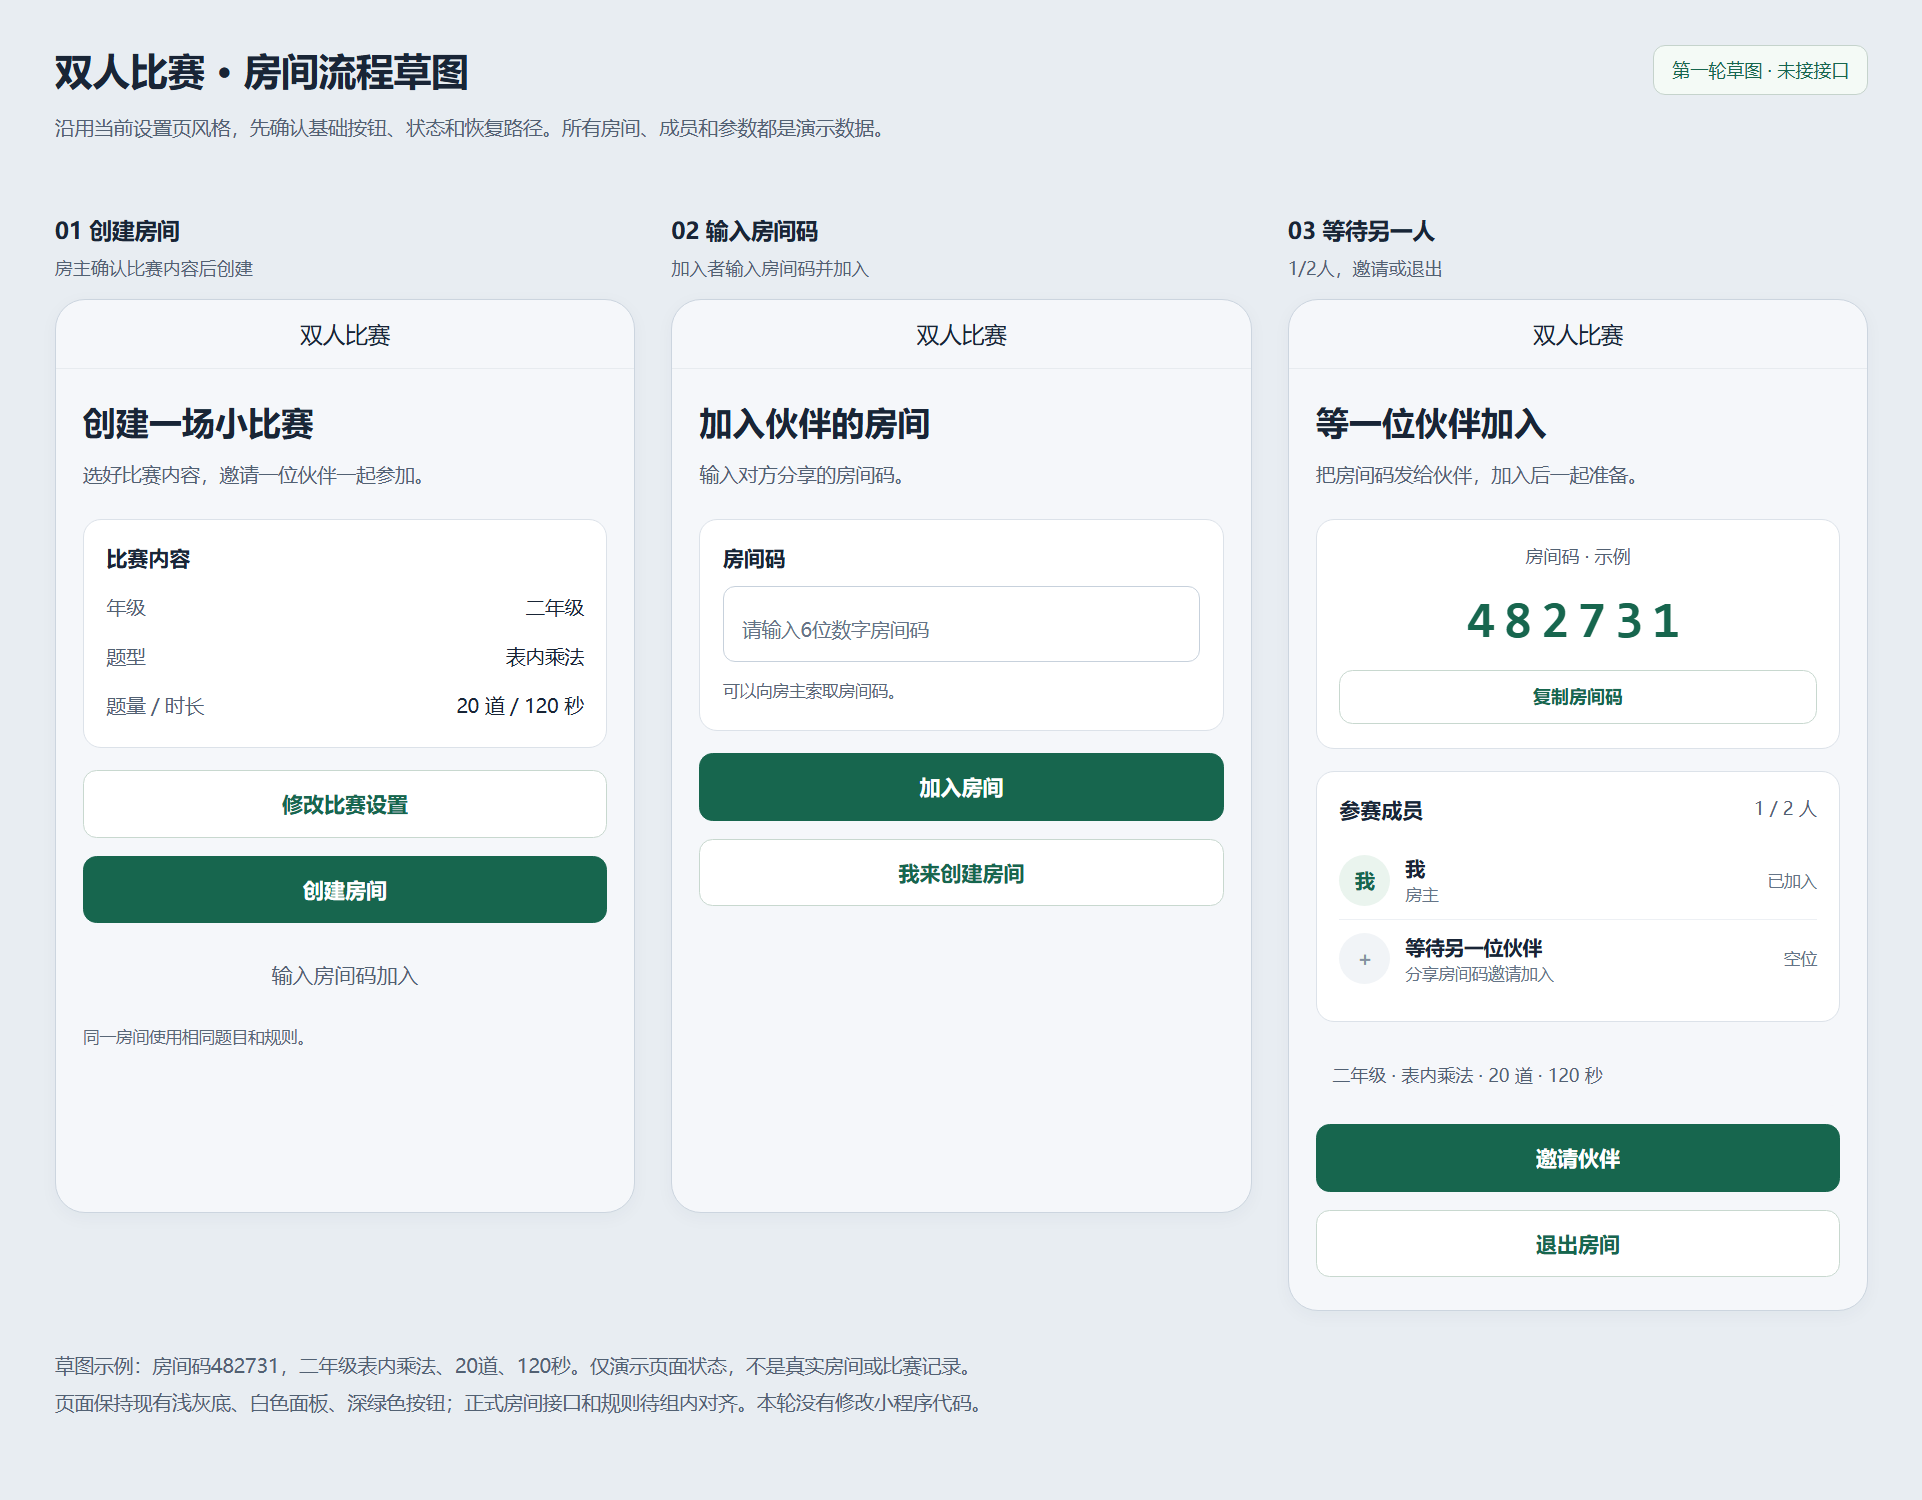
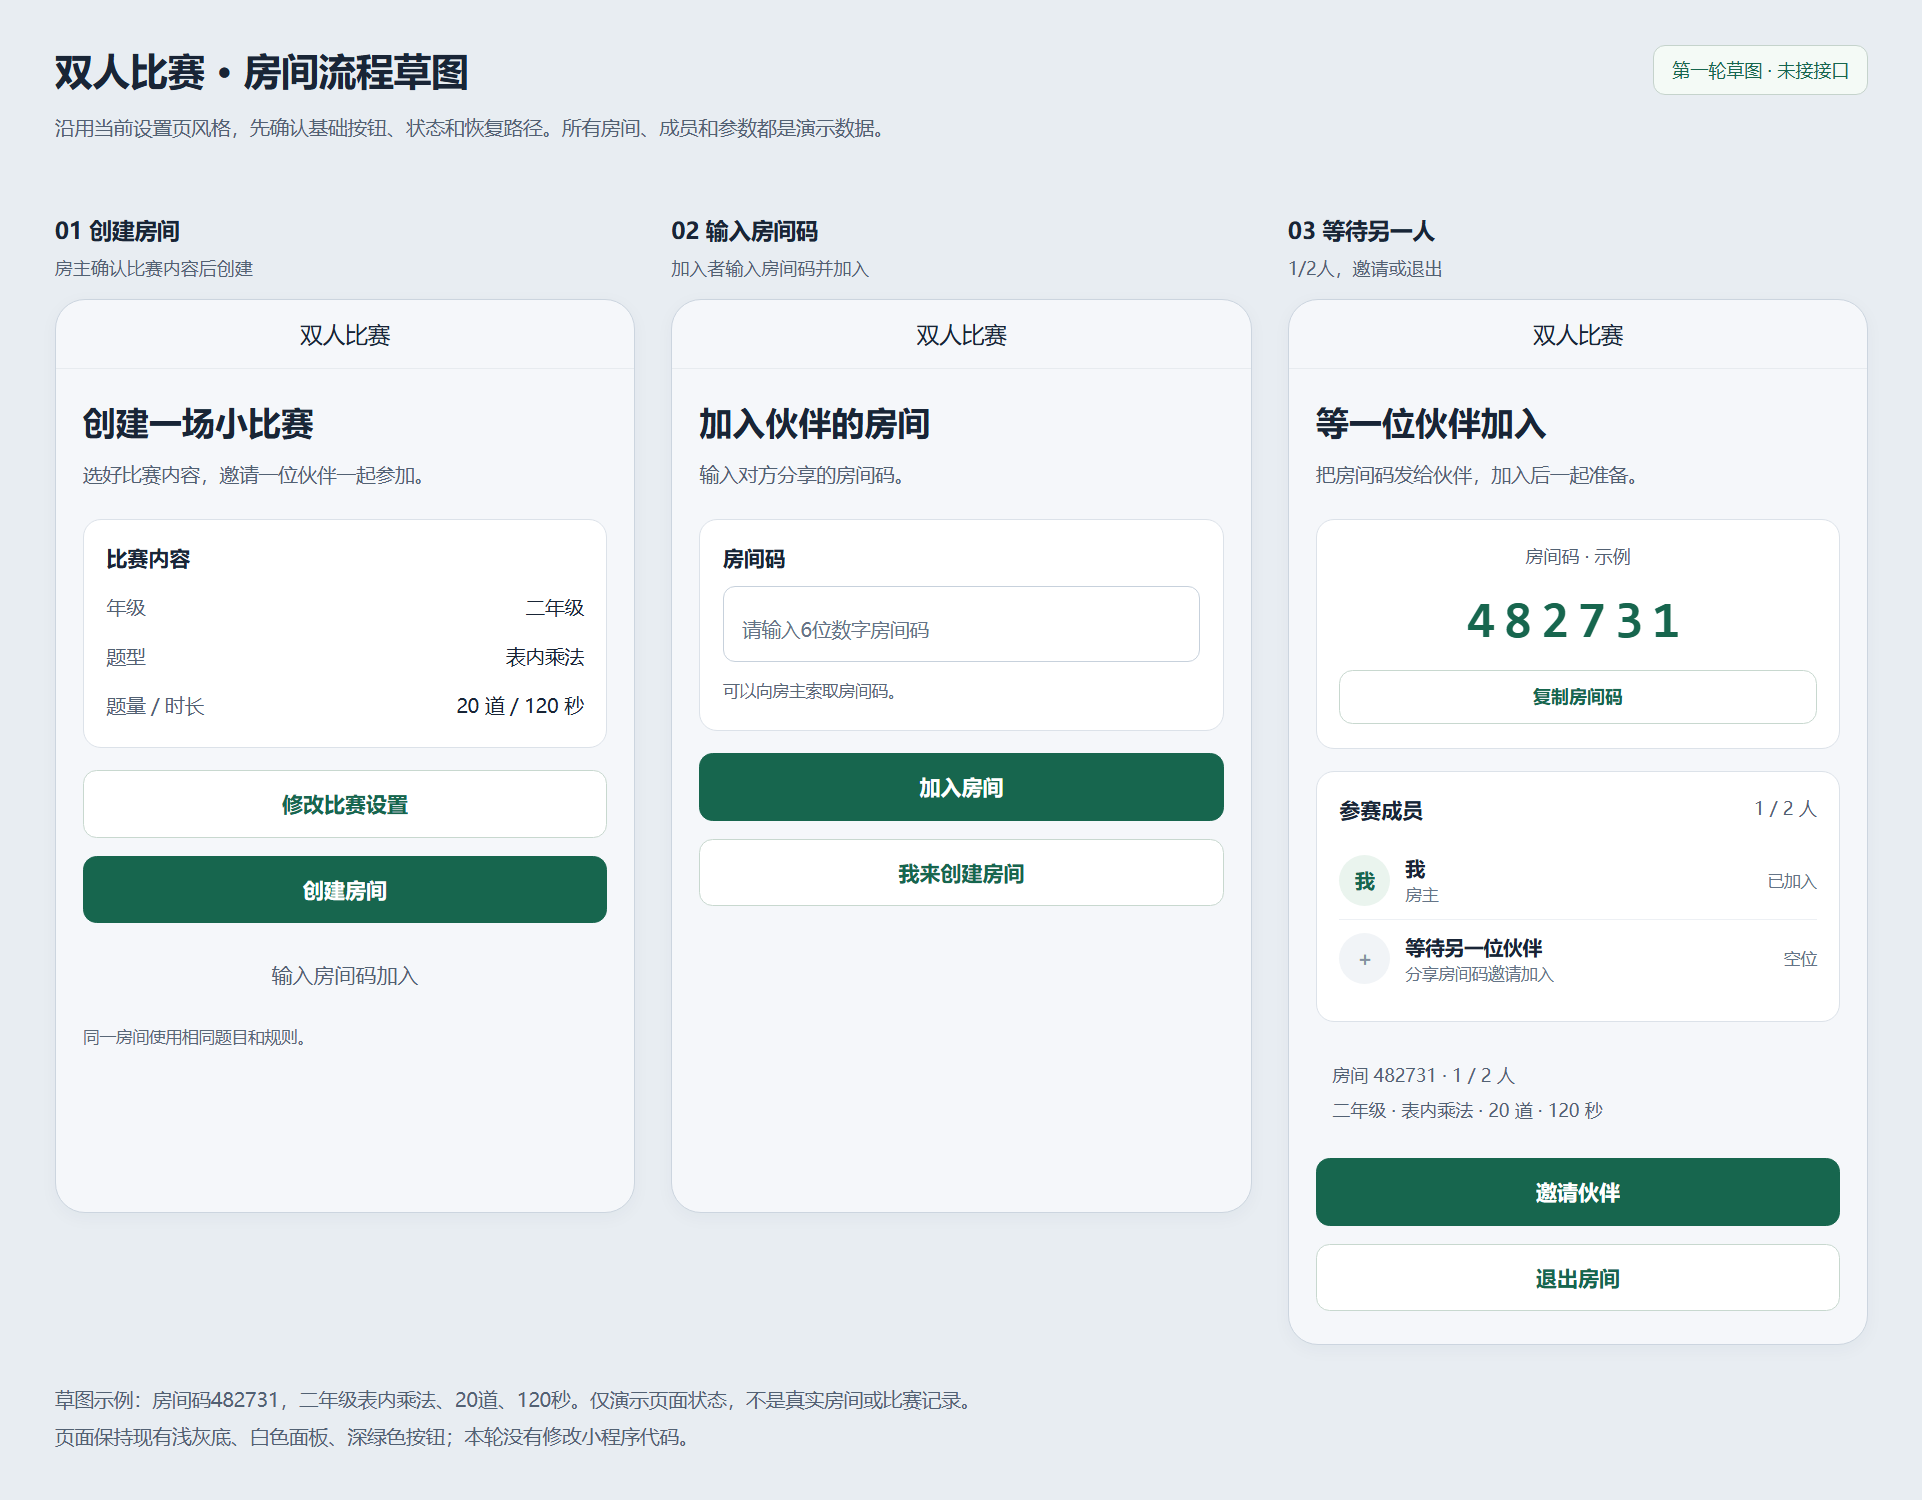
docs: align room countdown and refresh mockup sheets

Changed region(s): [[0.0312, 0.8893, 0.4995, 0.9813], [0.6868, 0.7053, 0.9677, 0.8587]]

diff --git a/docs/比赛房间草图/比赛房间-交互草图.html b/docs/比赛房间草图/比赛房间-交互草图.html
@@ -2,6 +2,8 @@
 *{box-sizing:border-box}body{margin:0;background:#e8edf2;color:#192536;font-family:-apple-system,BlinkMacSystemFont,'Microsoft YaHei',sans-serif}button,input{font-family:inherit}button{cursor:pointer}button:disabled{cursor:default}button:focus-visible,input:focus-visible{outline:3px solid #9bbfad;outline-offset:2px}.board{max-width:1281px;margin:auto;padding:30px 36px}.head{display:flex;justify-content:space-between;gap:20px;align-items:start}.head h1{margin:0 0 9px;font-size:25px}.intro,.footer{font-size:13px;line-height:1.9;color:#526173}.tag{white-space:nowrap;color:#17664e;background:#f4faf6;border:1px solid #c5d3cc;border-radius:8px;padding:8px 12px;font-size:12px}.nav-states{display:flex;gap:7px;flex-wrap:wrap;margin:20px 0}.nav-states button,.demo-tools button{border:1px solid #cdd7df;background:#fff;color:#334155;padding:8px 11px;border-radius:7px;font-size:12px}.nav-states .active{border-color:#17664e;background:#eaf4ee;color:#104f3c}.layout{display:flex;gap:30px;align-items:flex-start;justify-content:center}.screen{position:relative;width:375px;flex:none;background:#f5f7fa;border:1px solid #ccd5df;border-radius:20px;overflow:hidden;box-shadow:0 3px 12px #1b33400a}.bar{height:46px;display:flex;justify-content:center;align-items:center;font-size:15px;border-bottom:1px solid #e7ebef}.content{padding:20px 18px 22px;min-height:560px}.title{font-size:22px;line-height:1.45;font-weight:700;margin:0 0 7px}.sub{font-size:13px;line-height:1.8;color:#526173;margin-bottom:18px}.card{padding:16px 15px;border:1px solid #dce2e9;border-radius:12px;background:#fff;margin-bottom:15px}.card-title{font-size:14px;font-weight:600;margin-bottom:13px}.kv{display:flex;justify-content:space-between;align-items:start;gap:14px;font-size:13px;line-height:1.8;margin-top:9px}.kv .key{color:#526173;white-space:nowrap}.kv .value{text-align:right;color:#192536}.line{height:1px;background:#e6ebf0;margin:13px 0}.button{display:block;width:100%;border:1px solid #17664e;border-radius:9px;min-height:45px;line-height:1.5;background:#17664e;color:#fff;font-size:14px;font-weight:600;text-align:center;padding:11px 12px;margin:12px 0 0}.button.secondary{background:#fff;color:#17664e;border-color:#c8d8cf}.button.tertiary{color:#526173;background:transparent;border-color:transparent;font-weight:400}.button:disabled{background:#edf1f4;color:#8491a0;border-color:#dce2e9}.button.small{font-size:12px;min-height:36px;padding:7px 10px;margin-top:13px}.hint{font-size:11px;line-height:1.8;color:#596777;margin-top:9px}.green-note{color:#36614f}.room-code{font-family:Consolas,monospace;font-size:34px;font-weight:700;letter-spacing:6px;color:#17664e;text-align:center;margin:15px 0 4px}.code-label{font-size:12px;text-align:center;color:#526173}.members-title{display:flex;justify-content:space-between;font-size:14px;font-weight:600;margin-bottom:12px}.members-title span{font-size:12px;font-weight:400;color:#526173}.member{display:flex;align-items:center;gap:10px;min-height:52px;padding:8px 0}.member+.member{border-top:1px solid #edf0f4}.avatar{width:34px;height:34px;border-radius:50%;background:#eaf4ee;color:#17664e;text-align:center;line-height:34px;font-size:13px;font-weight:600}.member-empty .avatar{background:#f1f4f7;color:#8491a0}.member-copy{flex:1}.member-name{font-size:13px;font-weight:600}.member-role{font-size:11px;color:#657487;margin-top:2px}.member-state{font-size:11px;color:#657487}.member-state.done{color:#17664e}.badge{font-size:11px;padding:3px 7px;border-radius:5px;background:#eaf4ee;color:#17664e}.field-label{font-size:14px;font-weight:600;margin-bottom:10px}.code-input{width:100%;height:51px;box-sizing:border-box;border:1px solid #c7d1dc;border-radius:8px;padding:0 12px;background:#fff;font-size:22px;font-weight:600;letter-spacing:5px;color:#192536;outline:none}.code-input::placeholder{font-size:13px;font-weight:400;letter-spacing:0;color:#657487}.input-error{border-color:#ad3529}.error-text{font-size:12px;color:#ad3529;line-height:1.7;margin-top:8px}.center{text-align:center}.count-circle{width:106px;height:106px;border-radius:50%;background:#eaf4ee;color:#17664e;font-size:58px;font-weight:700;line-height:106px;margin:29px auto 24px}.symbol{width:70px;height:70px;border-radius:50%;background:#f0f3f6;color:#526173;font-size:27px;line-height:70px;margin:9px auto 20px;font-weight:600}.symbol.warning{background:#fff3df;color:#876019}.aside{max-width:430px;flex:1;background:#fff;border:1px solid #d5dfe5;border-radius:12px;padding:20px}.aside h2{font-size:17px;margin:0 0 12px}.aside p{font-size:13px;color:#526173;line-height:1.9;margin:8px 0}.demo-tools{display:flex;flex-wrap:wrap;gap:8px;margin:14px 0}.demo-title{font-size:12px;font-weight:600;color:#526173;margin-top:20px}.demo-message{min-height:40px;font-size:12px;line-height:1.8;color:#785317;padding-top:8px}.columns{display:flex;gap:24px;align-items:start;margin:24px 0}.column{width:387px;flex:none}.column .screen{width:387px}.caption{font-size:15px;font-weight:600;margin-bottom:10px;line-height:1.6}.caption small{font-size:12px;color:#526173;font-weight:400}.footer{margin-top:21px}.overlay{position:absolute;inset:0;background:#102d3670;display:flex;align-items:center;justify-content:center;padding:25px}.dialog{background:#fff;border-radius:13px;padding:21px;width:100%}.dialog h3{font-size:18px;margin:0 0 10px}.dialog p{font-size:13px;line-height:1.8;color:#526173}.summary-mini{font-size:12px;line-height:1.9;color:#526173;background:#f5f7fa;padding:9px 11px;border-radius:7px;margin:12px 0}.sheet .board{width:1281px;max-width:none}.sheet .content{min-height:562px}.sheet .column{min-height:650px}.loading-dots{font-size:25px;color:#17664e;letter-spacing:5px;margin:12px 0}@media(max-width:780px){body:not(.sheet) .board{padding:20px 12px}body:not(.sheet) .layout{flex-direction:column;align-items:center}body:not(.sheet) .screen{max-width:100%}body:not(.sheet) .aside{max-width:100%;width:375px}body:not(.sheet) .head{flex-wrap:wrap}}
 </style><main class="board"><header class="head"><div><h1>双人比赛 · 房间流程草图</h1><div class="intro">沿用当前设置页风格，先确认基础按钮、状态和恢复路径。所有房间、成员和参数都是演示数据。</div></div><div class="tag">第一轮草图 · 未接接口</div></header><nav id="state-nav" class="nav-states"></nav><div id="main"><div class="layout"><div class="screen" id="phone"></div><aside class="aside"><h2>当前状态说明</h2><p id="state-description"></p><div class="demo-title">草图演示控制（不是小程序按钮）</div><div class="demo-tools" id="demo-tools"><button data-demo="partner-join">模拟伙伴加入</button><button data-demo="partner-ready">切换伙伴准备</button><button data-demo="role">切换房主／加入者</button><button data-demo="host-start">模拟房主开赛</button><button data-demo="offline">模拟连接失败</button><button data-demo="cancel-start">模拟服务端取消开始</button><button data-demo="close-room">模拟服务端关闭房间</button></div><p>加入演示：482731正常；111111房间已满；222222失效；333333连接失败。</p><p>上方状态按钮会初始化预置示例。重连保留原房间快照；右侧可明确模拟断线期间的准备变化、取消开始和关闭房间。</p><div id="demo-message" class="demo-message"></div><div class="line"></div><p>浏览器交互草图，不是微信或真机截图。页面确认后再接房间接口；不代表已实现联机、身份或同步。</p></aside></div></div></main><script>(function client(stateList) {
   const sheet = new URLSearchParams(location.search).get('sheet');
+  // 与 docs/07_扩展题型与开赛规则确认.md 的 CR09 保持一致。
+  const COUNTDOWN_SECONDS = 3;
   let current = 'create', role = 'host', roomCode = '', inputError = '', dialog = false, timer = null;
   let mockRoom = null, displayedRoom = null, pendingJoin = false, attemptSerial = 0;
   const copy = value => value && JSON.parse(JSON.stringify(value));
@@ -65,7 +67,7 @@
     if (!snapshot || snapshot.phase !== 'waiting' || snapshot.members.length !== 2 || !snapshot.members.every(m => m.ready)) {
       showMessage('模拟服务端拒绝开始：需要两名成员均已准备。'); return;
     }
-    const startAt = Date.now() + 3000;
+    const startAt = Date.now() + COUNTDOWN_SECONDS * 1000;
     mockRoom = { ...snapshot, phase: 'countdown', attemptId: 'demo-attempt-' + (++attemptSerial),
       startAt, endAt: startAt + 120000,
       lastEvent: '模拟服务端事件：房主开始新批次，确定同一 startAt。' };
@@ -180,7 +182,7 @@
     document.body.classList.add('sheet');
     document.getElementById('main').innerHTML = '<div class="columns">' + sets[sheet].map(state => {
       const snapshot = newRoom(state === 'waiting' || state === 'offline' ? 1 : 2, ['both', 'countdown'].includes(state));
-      if (state === 'countdown') { snapshot.phase = 'countdown'; snapshot.startAt = Date.now() + 3000; }
+      if (state === 'countdown') { snapshot.phase = 'countdown'; snapshot.startAt = Date.now() + COUNTDOWN_SECONDS * 1000; }
       const title = stateList.find(s => s[0] === state);
       return '<section class="column"><div class="caption">' + title[1] + '<br><small>' + title[2] + '</small></div><div class="screen">' + body(state, snapshot) + '</div></section>';
     }).join('') + '</div><div class="footer">草图示例：房间码482731，二年级表内乘法、20道、120秒。仅演示页面状态，不是真实房间或比赛记录。<br>页面保持现有浅灰底、白色面板、深绿色按钮；本轮没有修改小程序代码。</div>';
@@ -253,5 +255,5 @@
     mockRoom = snapshot; afterServerEvent();
   };
   render();
-})([["create","01 创建房间","房主确认比赛内容后创建"],["join","02 输入房间码","加入者输入房间码并加入"],["waiting","03 等待另一人","1/2人，邀请或退出"],["ready","04 两人准备","双方分别确认准备"],["both","05 双方就绪","房主可以开始比赛"],["countdown","06 开始前倒计时","按同一startAt倒计时"],["full","07 房间已满","修改房间码或自行创建"],["expired","08 房间已失效","重新加入或创建新房间"],["offline","09 连接失败","读取原房间快照恢复"]]);
+})([["create","01 创建房间","房主确认比赛内容后创建"],["join","02 输入房间码","加入者输入房间码并加入"],["waiting","03 等待另一人","1/2人，邀请或退出"],["ready","04 两人准备","双方分别确认准备"],["both","05 双方就绪","房主可以开始比赛"],["countdown","06 开始前倒计时","按原定开赛时间倒计时"],["full","07 房间已满","修改房间码或自行创建"],["expired","08 房间已失效","重新加入或创建新房间"],["offline","09 连接失败","读取原房间快照恢复"]]);
 </script></html>

diff --git a/docs/07_扩展题型与开赛规则确认.md b/docs/07_扩展题型与开赛规则确认.md
@@ -95,4 +95,4 @@
 
 PR #1 的设置逻辑 39 项、浏览器布局 12 项及 WXML／WXSS 编译已在 c015aea 审查时通过；这是设置与原型阶段证据，不能证明新增生成器、判题或联网已经完成。
 
-本次确认解决了范围与规则的待决事项。审查发现的“断线重试回到单人等待、丢失准备状态”已于2026-10-28在本地草图中修复，恢复路径与验证结果见[草图说明](比赛房间草图/比赛房间-设计说明.md)和[R1验证记录](比赛房间草图/R1-断线恢复修复验证.md)；修复只覆盖模拟原型。远程提交及PR是否合并以GitHub实际状态为准，本记录不表示已经发布或合并。
+本次确认解决了范围与规则的待决事项。审查发现的“断线重试回到单人等待、丢失准备状态”已于2026-10-28在交互草图中修复，恢复路径与验证结果见[草图说明](比赛房间草图/比赛房间-设计说明.md)和[R1验证记录](比赛房间草图/R1-断线恢复修复验证.md)；修复只覆盖模拟原型。PR是否合并以GitHub实际状态为准，本记录不表示已经合并。

diff --git a/docs/比赛房间草图/R1-断线恢复修复验证.md b/docs/比赛房间草图/R1-断线恢复修复验证.md
@@ -41,4 +41,4 @@
 
 以上为浏览器原型验证，未进行真实联网、微信双端、服务端时间同步或接口竞争测试。答题和结果只显示接入位置，不生成题目、答案或成绩。正式接入时仍需校验可信身份、批次、服务端时间及取消边界，以返回的权威快照恢复；不要直接把本地模拟对象作为后端。
 
-小程序目录未改动。已发布Wiki和旧静态图仍对应此前引用的版本；本记录不表示远程PR或Wiki已经更新。
+倒计时按扩展确认记录CR09保持3秒，替代早期的5秒提案；交互草图与静态图共用同一倒计时常量。三组状态图已按修复后的HTML重新导出，便于与[Wiki图文页面](https://github.com/sensei2168/software-engineering-project/wiki/比赛房间流程草图)一起审阅。小程序目录未改动；原型修复不代表真实后端或课程完整功能已经验收。
